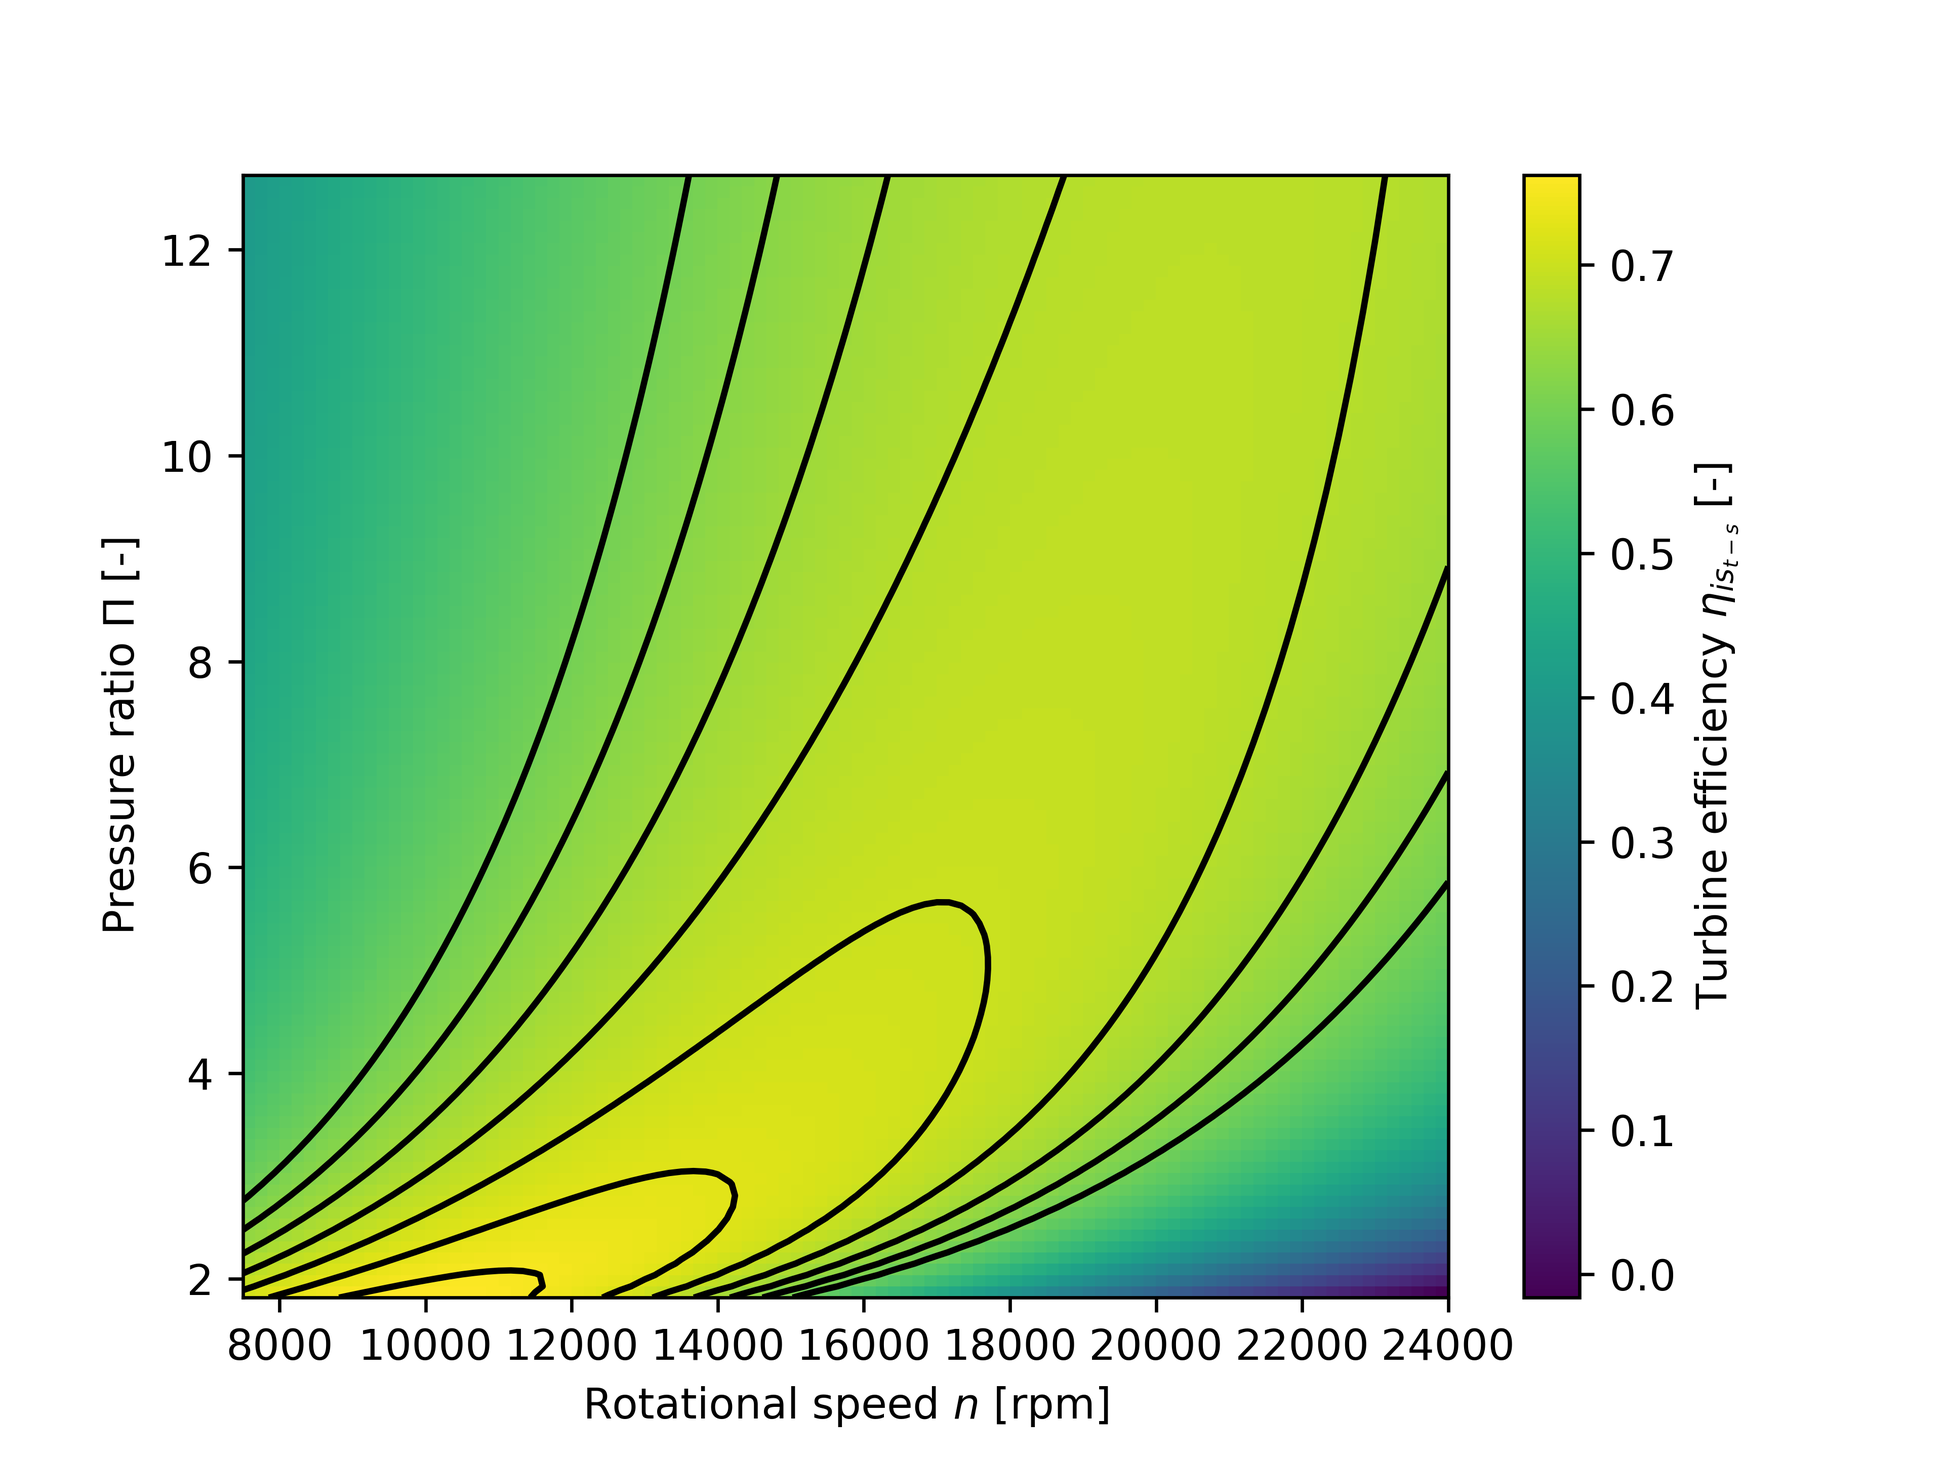
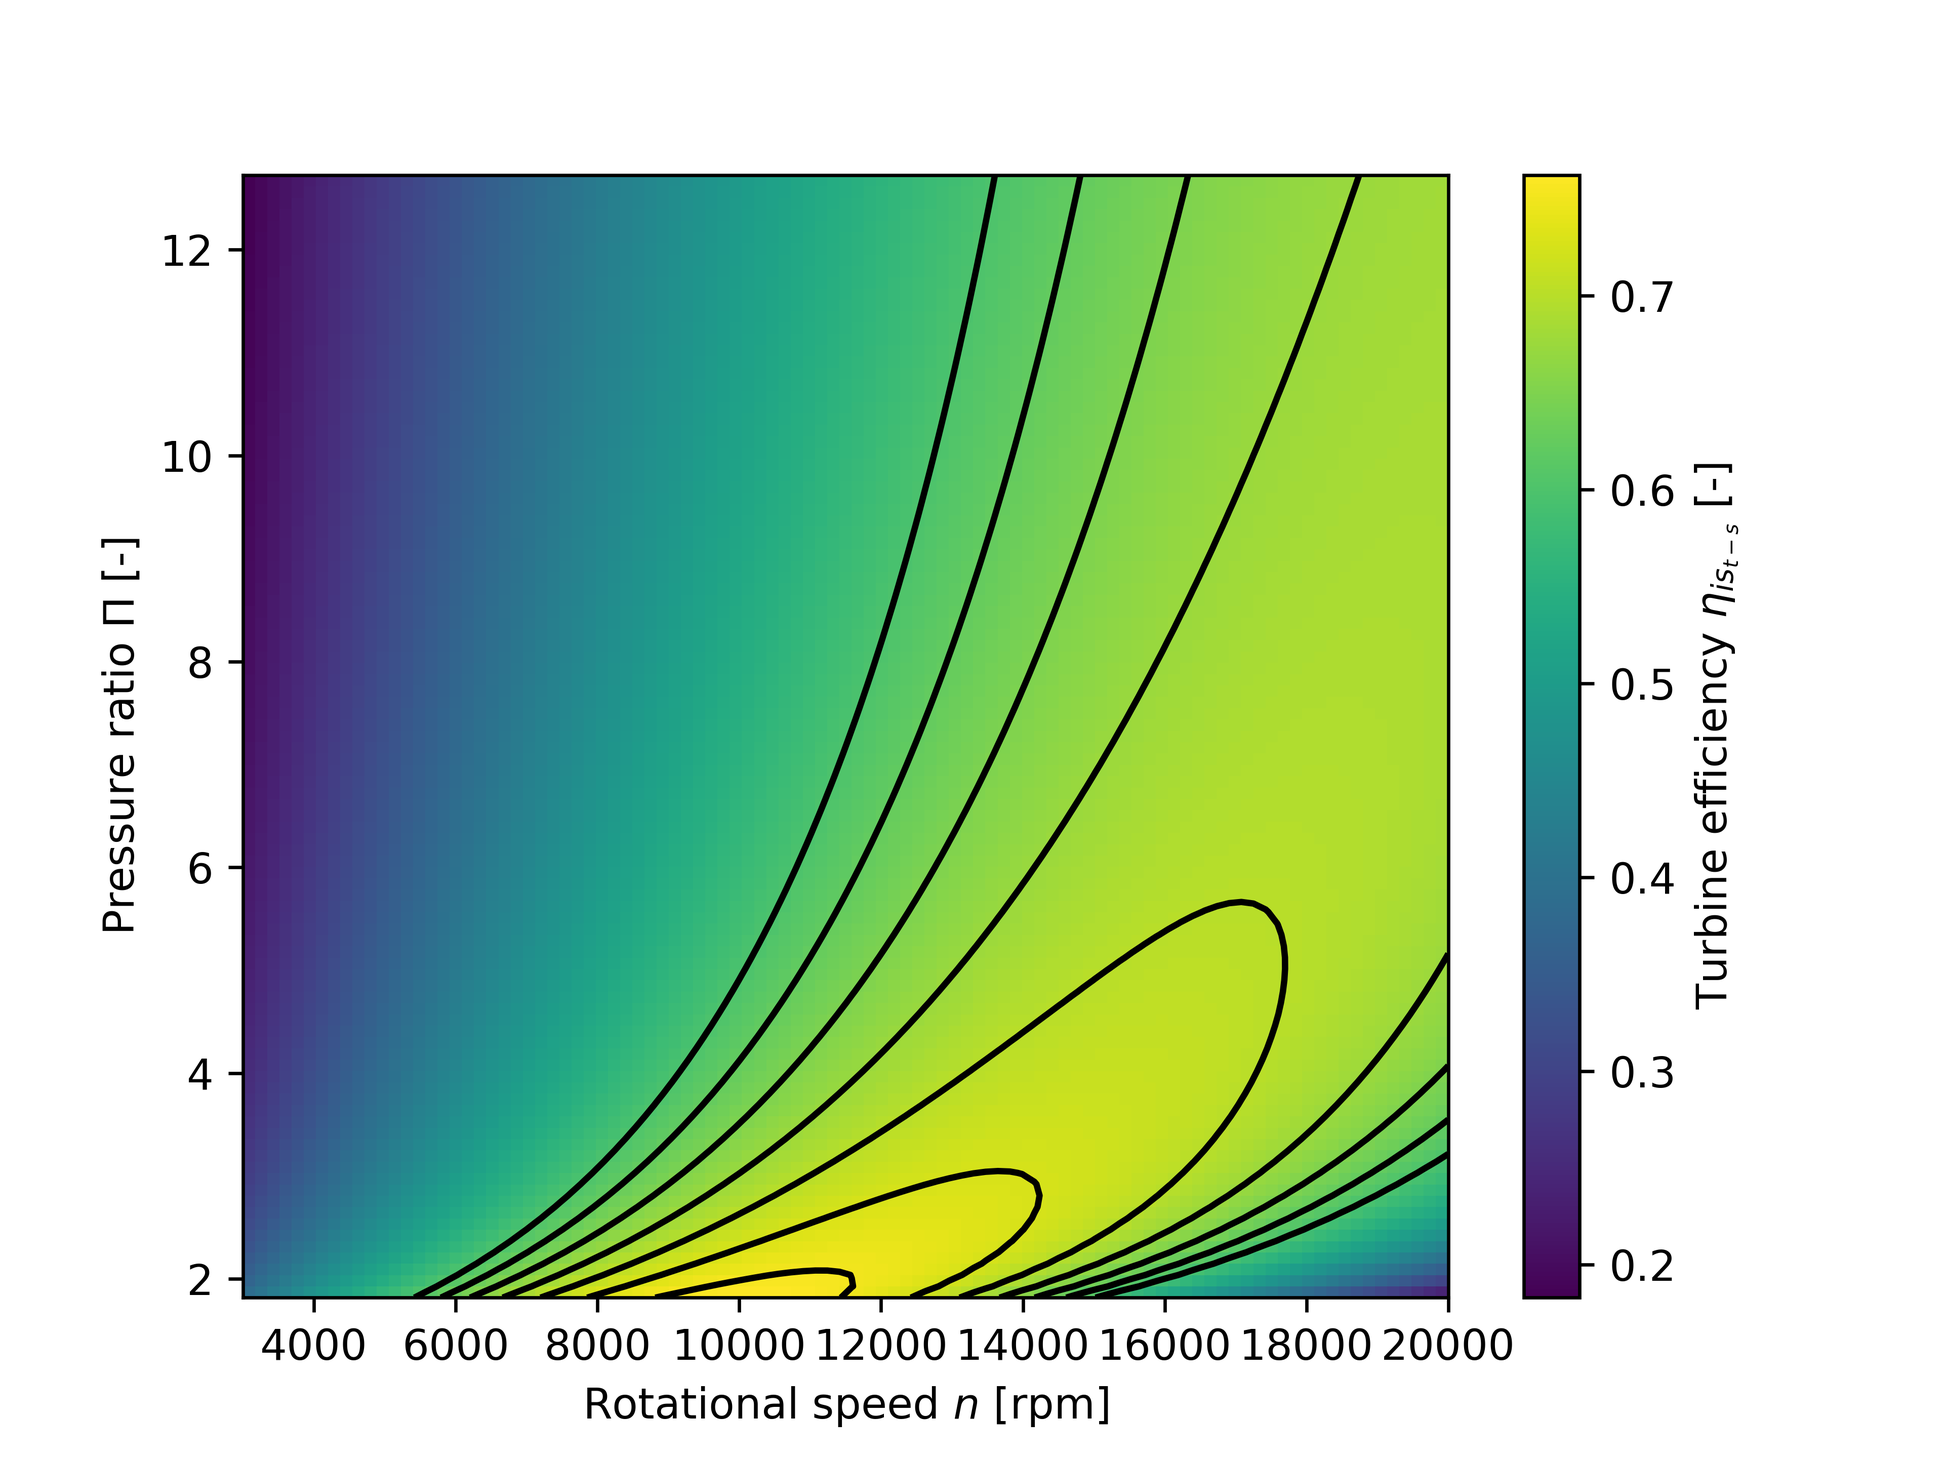
modified:   design_tools/orc_axial/axial_meanline_design.py 	new file:   experimental_data/MM_testrig_CTU/VUT_spindle/eta_el_VFD_heatmap.png 	new file:   experimental_data/MM_testrig_CTU/VUT_spindle/eta_eval.py 	new file:   experimental_data/MM_testrig_CTU/VUT_spindle/py_import_data_spindle.csv 	mod

diff --git a/design_tools/orc_axial/axial_meanline_design.py b/design_tools/orc_axial/axial_meanline_design.py
@@ -1,6 +1,6 @@
 """
 This is a Python design tool for the design of an axial impulse single stage small scale ORC turbine.
-Accompanies the PhD thesis of J.Spale, 2024.
+Accompanies the PhD thesis of J.Spale, 2024. CTU in Prague, supervisor: prof.Ing.M.Kolovratnik, CSc.
 for questions, send an email to: Jan.Spale@cvut.cz
 """
 from __future__ import print_function
@@ -24,7 +24,6 @@ import random
 
 from matplotlib.patches import Arc
 from matplotlib.transforms import Bbox, IdentityTransform, TransformedBbox
-
 
 class AngleAnnotation(Arc):
     """
@@ -176,10 +175,10 @@ class AngleAnnotation(Arc):
 RP_path = "c:\\Program Files (x86)\\REFPROP"
 
 # cycle boundary conditions
-p_inlet = convert(550,"kPa","Pa") # kPa
-T_inlet = convert(180,"C","K") # C
+p_inlet = convert(570,"kPa","Pa") # kPa
+T_inlet = convert(184,"C","K") # C
 p_outlet = convert(55,"kPa","Pa") # kPa
-m_dot = 0.25  # kg/s
+m_dot = 0.222  # kg/s
 fluid = "MM" # hexamethyldisiloxane
 z = [1.0] # [-] molar fraction of the fluid
 
@@ -187,11 +186,12 @@ z = [1.0] # [-] molar fraction of the fluid
 n_design = 18000  # rpm
 D_mid = 0.135  # m
 alpha_stator = 13  # deg
+beta_rotor = 23.5  # deg
 h_over_D_mid = 0.04  # [-]
 eta_guess = 0.7  # [-]
 e = 1 # [-] partial admission factor
 
-def meanline_design(D_mid,n_design,alpha_stator,h_over_D_mid,eta_guess, p_inlet, T_inlet):
+def meanline_design(D_mid,n_design,alpha_stator,h_over_D_mid,eta_guess, p_inlet, T_inlet,beta_rotor):
     #initialize REFPROP
     RP = REFPROPFunctionLibrary(os.environ['RPPREFIX']) # Instantiate the REFPROP function library
     RP.SETPATHdll(os.environ['RPPREFIX']) # Set the path to the folder containing the REFPROP shared library
@@ -282,11 +282,11 @@ def meanline_design(D_mid,n_design,alpha_stator,h_over_D_mid,eta_guess, p_inlet,
     ht_nozzle = h_over_D_mid*D_mid # m
     b_nozzles_out = A_outlet/ht_nozzle # m
     b_nozzles_throat = A_throat/ht_nozzle # m
-    no_nozzles = 10 # [-]
+    no_nozzles = 10 # [-] #CONSTANT!!!!! - to be varied
     b_nozzle_out = b_nozzles_out/no_nozzles # m
     b_nozzle_throat = b_nozzles_throat/no_nozzles # m
 
-    """ #gammas
+     #gammas
 
     CP.set_config_string(CP.ALTERNATIVE_REFPROP_PATH, os.getenv('RPPREFIX'))
 
@@ -490,7 +490,6 @@ def meanline_design(D_mid,n_design,alpha_stator,h_over_D_mid,eta_guess, p_inlet,
     plt.ticklabel_format(style='sci', axis='y', scilimits=(0,0))
     plt.savefig('Gamma_P_v_diagram.png', dpi = 600)
     plt.show()
-    """
 
     #velocity triangles
     c1a = c_nozzle_out*np.sin(np.radians(alpha_stator)) # m/s; axial absolute velocity stator outlet
@@ -501,15 +500,14 @@ def meanline_design(D_mid,n_design,alpha_stator,h_over_D_mid,eta_guess, p_inlet,
     w1 = np.sqrt(w1a**2+w1u**2) # m/s; relative velocity stator outlet
     Ma1r = w1a/a_nozzle_out # [-]; relative Mach number stator outlet
 
-    beta1 = 23.5 # deg; rotor inlet flow angle                           #CONSTANT!!!!!
-    beta2 = 180 - beta1 # deg; rotor outlet flow angle (impulse turbine) #CONSTANT!!!!!
+    beta1 = beta_rotor # deg; rotor inlet flow angle                          
+    beta2 = 180 - beta1 # deg; rotor outlet flow angle (impulse turbine) 
 
     theta = beta2 - beta1 # deg; rotor total deflection angle
 
     ht_rotor = ht_nozzle + 0.0003 # m; rotor height
     P_guess = m_dot*dh_stage*eta_guess # W; guess for power output
-    #list of chord values
-    chords = [0.005,0.0075,0.01,0.0125,0.015,0.2,0.25,0.3,0.4,0.5]
+    chords = [0.005,0.0075,0.01,0.0125,0.015,0.2,0.25,0.3,0.4,0.5] #list of chord values
     chord_guess = 1.6*np.sqrt((P_guess/m_dot/1000+25))/1000 # m; guess for rotor chord
     chord = min(chords, key=lambda x:abs(x-chord_guess)) #pick the closest chord value from the list
     #chord = 0.0125 # m; rotor chord
@@ -521,13 +519,6 @@ def meanline_design(D_mid,n_design,alpha_stator,h_over_D_mid,eta_guess, p_inlet,
         k2 = 0.65 # [-]; phi_it_coeff n
         phi_corrected = np.sqrt(1-((1-current_phi**2)/k1)*(1+(k1-1)*(ht_rotor/chord)**(-k2))) # [-]; corrected impulse turbine loss factor
         phi_diff = abs(phi_corrected-current_phi) # [-]; difference between corrected and initial impulse turbine loss factor
-        """
-        while phi_diff > 0.0001:
-            current_phi = current_phi-0.00001
-            phi_corrected = np.sqrt(1-((1-current_phi**2)/k1)*(1+(k1-1)*(ht_rotor/chord)**(-k2)))
-            phi_diff = abs(phi_corrected-current_phi)
-            print(f"phi_diff: {phi_diff}, phi_corrected: {phi_corrected}, phi_it: {current_phi}")
-        """
         return phi_corrected
 
     phi_rotor = np.real(get_phi(phi_it,ht_rotor,chord)) # [-]; corrected impulse turbine loss factor
@@ -558,27 +549,26 @@ def meanline_design(D_mid,n_design,alpha_stator,h_over_D_mid,eta_guess, p_inlet,
         q_tot_out = RP.REFPROPdll(fluid,"HS","QMASS",baseSI,iMass,iFlag,h2t,s2,z); check_err(q_tot_out)
         #print(f"q_tot_out: {q_tot_out.Output[0]}")
         if q_tot_out.Output[0] < 0:
-            r = RP.REFPROPdll(fluid,"HS","T;D;W;P",baseSI,iMass,iFlag,h2t,s2,z); check_err(r)
+            r = RP.REFPROPdll(fluid,"HS","T;D;W;P",baseSI,iMass,iFlag,h2t,s2 ,z); check_err(r)
             T2t,rho2t,a2t,p_outlet_total = r.Output[0:4] # K, kg/m3, m/s, J/kgK
     except:
         T2t,rho2t,a2t,p_outlet_total = T2,rho2,a2,p_outlet # K, kg/m3, m/s, J/kgK
     P_turb_aero = m_dot*U*(c1u-c2u) # W; aerodynamic power
-    #disc friction loss correlation
-    P_disc_fric = 0.01*(n_design/60)**3*D_mid**5*rho2 # W; disc friction loss
-    P_partial_admission = (1-e)*rho2*(n_design/60)**3*D_mid**4*4.5*ht_rotor*1.85/2 # W; partial admission loss
-    eta_turb = (P_turb_aero-P_disc_fric-P_partial_admission)/(m_dot*dh_stage) # [-]; turbine efficiency
+    #friction loss correlation
+    P_fric = 0.01*(n_design/60)**3*D_mid**5*rho2 # W; friction loss
+    P_partial_admission = (1-e)*rho2*(n_design/60)**3*D_mid**4*4.5*ht_rotor*1.85/2 # W; partial admission and ventilation loss
+    P_mech = P_turb_aero - P_fric - P_partial_admission # W; mechanical power
+    eta_turb = (P_mech)/(m_dot*dh_stage) # [-]; turbine efficiency
     h_out_eta = h[0] - eta_turb*dh_stage # J/kg; outlet enthalpy with efficiency
     r=RP.REFPROPdll(fluid,"HP","S",baseSI,iMass,iFlag,h_out_eta,p_outlet,z); check_err(r)
     s_out_eta = r.Output[0] # J/kgK; outlet entropy with efficiency
-
-    #print(f"eta_turb: {eta_turb}")
 
     #package the results in a dictionary
     res = {"c1u":c1u,"c1a":c1a,"w1u":w1u,"w1a":w1a,"U":U,"c2u":c2u,"c2a":c2a,"w2u":w2u,"w2a":w2a,"alpha_stator":alpha_stator,
            "beta2":beta2,"alpha_rotor":alpha_rotor,"s":s,"h":h,"s_nozzle_out":s_nozzle_out,"h_nozzle_out":h_nozzle_out,"s2":s2,
            "h2":h2,"h2t":h2t,"s_out_eta":s_out_eta,"h_out_eta":h_out_eta,"p_inlet":p_inlet,"p_outlet":p_outlet,
            "p_outlet_total":p_outlet_total,"fluid":fluid,"z":z,"PR_is":PR_is,"Ma_is":Ma_is,"p_is":p_is,"throat_index":throat_index,
-           "PR_act":PR_act,"Ma_act":Ma_act,"eta_turb":eta_turb,"P_turb_aero":P_turb_aero,"U_over_c_is":U_over_c_is,
+           "PR_act":PR_act,"Ma_act":Ma_act,"eta_turb":eta_turb,"P_turb_aero":P_turb_aero,"P_mech":P_mech,"U_over_c_is":U_over_c_is,"Ma1r":Ma1r,
     }
 
     return res
@@ -762,7 +752,7 @@ def calculate_efficiency_for_n(args):
 
 def sensitivity_analysis_rpm_pool(n_design, D_mid, alpha_stator, h_over_D_mid, eta_guess, p_inlet, T_inlet):
     p_inlet_range = np.linspace(100000, 700000, 100)
-    n_range = np.linspace(7500, 24000, 100)
+    n_range = np.linspace(3000, 20000, 100)
 
     eta_turb_range = []
     P_turb_range = []
@@ -825,10 +815,6 @@ def sensitivity_analysis_rpm_pool(n_design, D_mid, alpha_stator, h_over_D_mid, e
     max_P_turb = [max(P_turb) for P_turb in P_turb_range]
     max_P_turb_index = [P_turb.index(max_P) for P_turb, max_P in zip(P_turb_range, max_P_turb)]
     max_P_turb_rpm = [n_range[index] for index in max_P_turb_index]
-    fig, ax = plt.subplots()
-    ax.plot(p_inlet_range / p_outlet, max_P_turb_rpm, label='Maximum power', color='black')
-    ax.set(xlabel='PR [-]', ylabel='Ideal Rotational speed [rpm]')
-    ax.grid(True, linestyle='--')
     
     # Polyfit the max_P_turb_rpm over p_inlet_range/p_outlet
     p = np.polyfit(p_inlet_range / p_outlet, max_P_turb_rpm, 4)
@@ -870,6 +856,19 @@ def sensitivity_analysis_rpm_pool(n_design, D_mid, alpha_stator, h_over_D_mid, e
     plt.show()
     plt.close()
 
+    #create a heatmap of the turbine torque over the rotational speed (x) and the pressure ratio (y), use matplotlib, show iso-torque lines 2,3,4,5,6,7,8,9,10,11,12 Nm
+    fig, ax = plt.subplots()
+    c = ax.pcolormesh(n_range, p_inlet_range/p_outlet, P_turb_range/(2*np.pi*n_range/60), cmap='viridis')
+    fig.colorbar(c, ax=ax, label=r'Turbine torque $T_{mech}$ [Nm]')
+    ax.set(xlabel=r'Rotational speed $n$ [rpm]', ylabel=r'Pressure ratio $\Pi$ [-]')
+    #plot iso-torque lines
+    iso_torque = [2,3,4,5,6,7,8,9,10,11,12]
+    for torque in iso_torque:
+        ax.contour(n_range, p_inlet_range/p_outlet, P_turb_range/(2*np.pi*n_range/60), levels=[torque], colors='black')
+    plt.savefig('sensitivity_analysis_rpm_torque_heatmap.png', dpi=600)
+    plt.show()
+    plt.close()
+
 def sensitivity_analysis_alpha_stator(n_design,D_mid,alpha_stator,h_over_D_mid,eta_guess):
     #vary alpha_stator in the range of 10° to 20° and calculate the eta_turb, plot it over alpha_stator
     alpha_stator_range = np.linspace(10,20,100)
@@ -903,8 +902,8 @@ def sensitivity_analysis_D_mid(n_design,D_mid,alpha_stator,h_over_D_mid,eta_gues
     plt.close()
 
 def evaluate(individual):
-    D_mid, n_design, alpha_stator, h_over_D_mid = individual
-    result = meanline_design(D_mid, n_design, alpha_stator, h_over_D_mid, eta_guess,p_inlet,T_inlet)
+    D_mid, n_design, alpha_stator, h_over_D_mid,beta_rotor = individual
+    result = meanline_design(D_mid, n_design, alpha_stator, h_over_D_mid, eta_guess,p_inlet,T_inlet,beta_rotor)
     return (result["eta_turb"],)
 
 def run_GA(population, toolbox, ngen, stats):
@@ -935,13 +934,21 @@ def plot_convergence(log):
 
     plt.show()
 
-def plot_parameters_evolution(log, param_labels):
+def plot_parameters_evolution(log, param_labels, population):
     gen = log.select("gen")
+    num_gens = len(gen)
     fig, axs = plt.subplots(len(param_labels))
 
     for i, param_label in enumerate(param_labels):
-        values = [ind[i] for ind in population]
-        axs[i].plot(gen, values, label=f'Parameter {param_label}')
+        # Collect the parameter values over the generations
+        values_over_gens = [[] for _ in range(num_gens)]
+        for g in range(num_gens):
+            # Get individuals from the population of the specific generation
+            for ind in population:
+                values_over_gens[g].append(ind[i])
+        # Calculate average parameter values for each generation
+        avg_values = [np.mean(values) for values in values_over_gens]
+        axs[i].plot(gen, avg_values, label=f'Parameter {param_label}')
         axs[i].set_xlabel("Generation")
         axs[i].set_ylabel(f'{param_label}')
         axs[i].legend()
@@ -996,15 +1003,14 @@ if __name__=='__main__':
     #sensitivity_analysis_alpha_stator(n_design,D_mid,alpha_stator,h_over_D_mid,eta_guess)
     #sensitivity_analysis_D_mid(n_design,D_mid,alpha_stator,h_over_D_mid,eta_guess)
      
-    #res=meanline_design(D_mid,n_design,alpha_stator,h_over_D_mid,eta_guess,p_inlet,T_inlet)
-    #print(res)
+    res=meanline_design(D_mid,n_design,alpha_stator,h_over_D_mid,eta_guess,p_inlet,T_inlet,beta_rotor)
+    print(res)
 
-     #uncomment as you wish to draw the plots
+    #uncomment as you wish to draw the plots
     #draw_nozzle_expansion(res["PR_is"],res["Ma_is"],res["p_is"],res["throat_index"],res["PR_act"],res["Ma_act"])
     #draw_expansion_line(res["s"],res["h"],res["s_nozzle_out"],res["h_nozzle_out"],res["s2"],res["h2"],res["h2t"],res["s_out_eta"],res["h_out_eta"],res["p_inlet"],res["p_outlet"],res["p_outlet_total"],res["fluid"],res["z"])
     #draw_velocity_triangles(res["c1u"],res["c1a"],res["w1u"],res["w1a"],res["U"],res["c2u"],res["c2a"],res["w2u"],res["w2a"],res["alpha_stator"],res["beta2"],res["alpha_rotor"])
 
-    
     #Genetic Algorithm 
     import multiprocessing
     pool = multiprocessing.Pool(multiprocessing.cpu_count()-2)
@@ -1018,10 +1024,11 @@ if __name__=='__main__':
         (0.08, 0.2),    # D_mid
         (10000, 25000),  # n_design
         (10, 18),         # alpha_stator (degrees)
-        (0.03, 0.07)     # h_over_D_mid
+        (0.03, 0.07),     # h_over_D_mid
+        (15, 30)            #beta_rotor (degrees)
     ]
 
-    param_labels = ['D_mid', 'n_design', 'alpha_stator', 'h_over_D_mid']
+    param_labels = ['D_mid', 'n_design', 'alpha_stator', 'h_over_D_mid', 'beta_rotor']
 
     # Helper to create a random individual
     def create_individual():
@@ -1066,10 +1073,8 @@ if __name__=='__main__':
     pool.join()
 
     plot_convergence(log) # Plot the convergence of the GA
-    #plot_parameters_evolution(log, param_labels)     # Plot the evolution of the parameters
-    #plot_fitness_landscape() # Plot the fitness landscape
-    #plot_population_distribution(population) # Plot the distribution of the population
+    # plot the evolution of different parameters over generations
+    #plot_parameters_evolution(log, param_labels,population)
     
-
     toc = timeit.default_timer()
     print(f"Elapsed time: {toc-tic} s")

diff --git a/experimental_data/MM_testrig_CTU/VUT_spindle/eta_eval.py b/experimental_data/MM_testrig_CTU/VUT_spindle/eta_eval.py
@@ -1,0 +1,78 @@
+# this file is used to evaluate the efficiency of the spindle motor using the experimental data obtained at 08/28/2024 at VUT Brno
+# the same spindle is then used in generator mode for the turbine, with the same VFD
+
+import pandas as pd
+import numpy as np
+import os
+import matplotlib.pyplot as plt
+
+os.chdir('C:\\GitHub\\DEXPAND\\experimental_data\\MM_testrig_CTU\\VUT_spindle') # Change the working directory to the folder containing the data
+
+# load the data
+data = pd.read_csv('py_import_data_spindle.csv')
+
+#read each column into a separate numpy array named after the column
+torque = data['Torque [Nm]'].values # Torque in Nm
+#Torque [Nm]	f [Hz]	rpm	P_avgd_VFD [W]	P_act_VFD [W]	P_yoko [W]	P_mech [W]	PF [-]	eta_el_VFD [-]	eta_el_yoko [-]	slip [-]	delta_yoko [W]	delta_yoko [-]
+f = data['f [Hz]'].values # Frequency in Hz
+rpm = data['rpm'].values # Speed in rpm
+P_avgd_VFD = data['P_avgd_VFD [W]'].values # Average power in W
+P_act_VFD = data['P_act_VFD [W]'].values # Actual power in W
+P_yoko = data['P_yoko [W]'].values # Yoko power in W
+P_mech = data['P_mech [W]'].values # Mechanical power in W
+PF = data['PF [-]'].values # Power factor
+eta_el_VFD = data['eta_el_VFD [-]'].values # Electrical efficiency of the VFD
+eta_el_yoko = data['eta_el_yoko [-]'].values # Electrical efficiency of the Yoko spindle
+slip = data['slip [-]'].values # Slip
+delta_yoko = data['delta_yoko [W]'].values # Difference in power between VFD and Yoko spindle
+delta_yoko_perc = data['delta_yoko [-]'].values # Difference in power between VFD and Yoko spindle in percentage
+
+
+# plot the electrical efficiency of the VFD and yoko as a function of torque
+plt.figure()
+plt.plot(torque,eta_el_VFD, label='VFD')
+plt.plot(torque,eta_el_yoko, label='Yoko',linestyle='--')
+plt.xlabel('Torque [Nm]')
+plt.ylabel('Electrical efficiency [-]')
+plt.title('Electrical efficiency as a function of torque')
+#polyfit the data
+p = np.polyfit(torque,eta_el_VFD,5)
+r = np.polyfit(torque,eta_el_yoko,5)
+plt.plot(torque,np.polyval(p,torque),'r')
+plt.plot(torque,np.polyval(r,torque),'g')
+plt.show()
+
+# plot a heatmap of eta_el_VFD as a function of torque and frequency
+# and also plot isocontours of eta_el_VFD [0.5,0.55,0.6,0.65,0.7,0.75,0.8,0.85,0.9,0.95]
+
+#create a meshgrid of torque and frequency
+f_unique = np.unique(f)
+torque_unique = np.unique(torque)
+f_mesh,torque_mesh = np.meshgrid(f_unique,torque_unique)
+
+# create a meshgrid of eta_el_VFD
+eta_el_VFD_mesh = np.zeros((len(torque_unique),len(f_unique)))
+for i in range(len(torque_unique)):
+    for j in range(len(f_unique)):
+        eta_el_VFD_mesh[i,j] = np.mean(eta_el_VFD[(f==f_unique[j]) & (torque==torque_unique[i])])
+
+# plot the heatmap, iso efficiency lines and the values of the iso efficiency
+plt.figure()
+plt.pcolormesh(f_mesh,torque_mesh,eta_el_VFD_mesh,cmap='viridis')
+plt.colorbar()
+plt.xlabel('Frequency [Hz]')
+plt.ylabel('Torque [Nm]')
+plt.title('Electrical efficiency of the VFD')
+# also plot iso efficiency lines and the values of the iso efficiency
+iso_eff = [0.5,0.55,0.6,0.65,0.7,0.75,0.8,0.85,0.9,0.95]
+for eff in iso_eff:
+    plt.contour(f_mesh,torque_mesh,eta_el_VFD_mesh,levels=[eff],colors='r',linestyles='--')
+
+# plot the iso efficiency values
+for eff in iso_eff:
+    idx = np.argmin(np.abs(eta_el_VFD_mesh-eff))
+    plt.text(f_mesh.flatten()[idx],torque_mesh.flatten()[idx],str(eff),color='r')
+
+plt.show()
+
+
